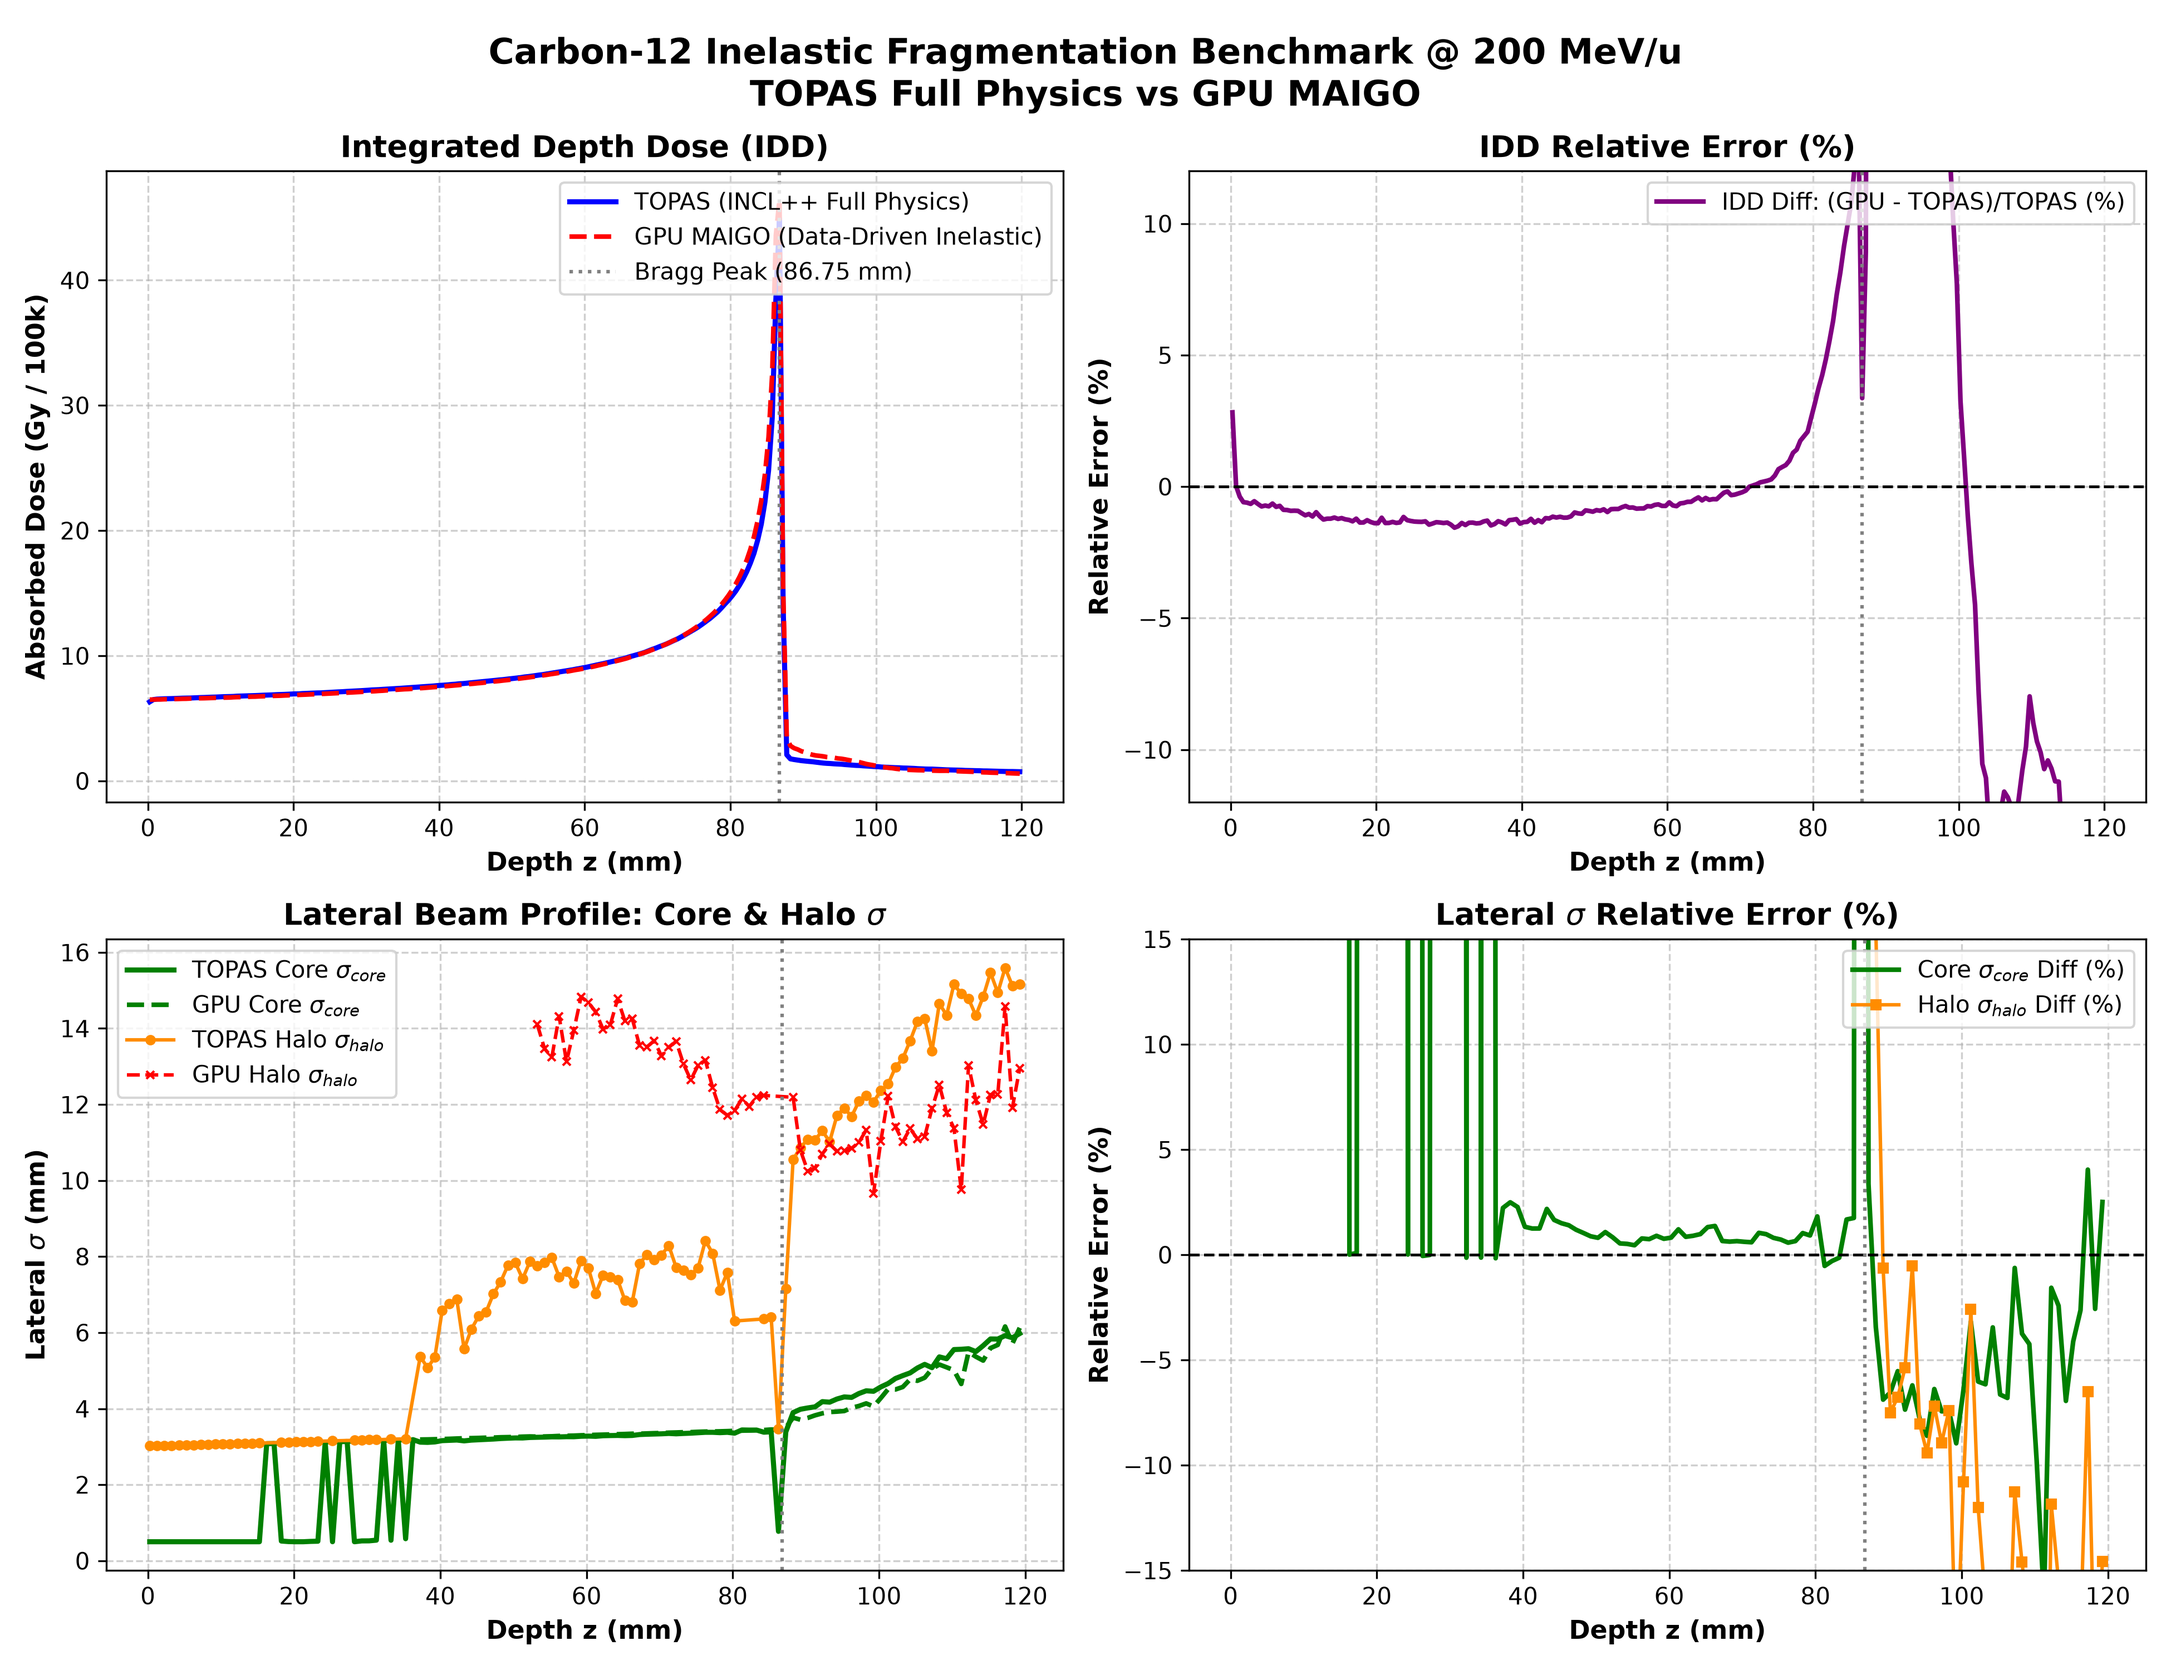
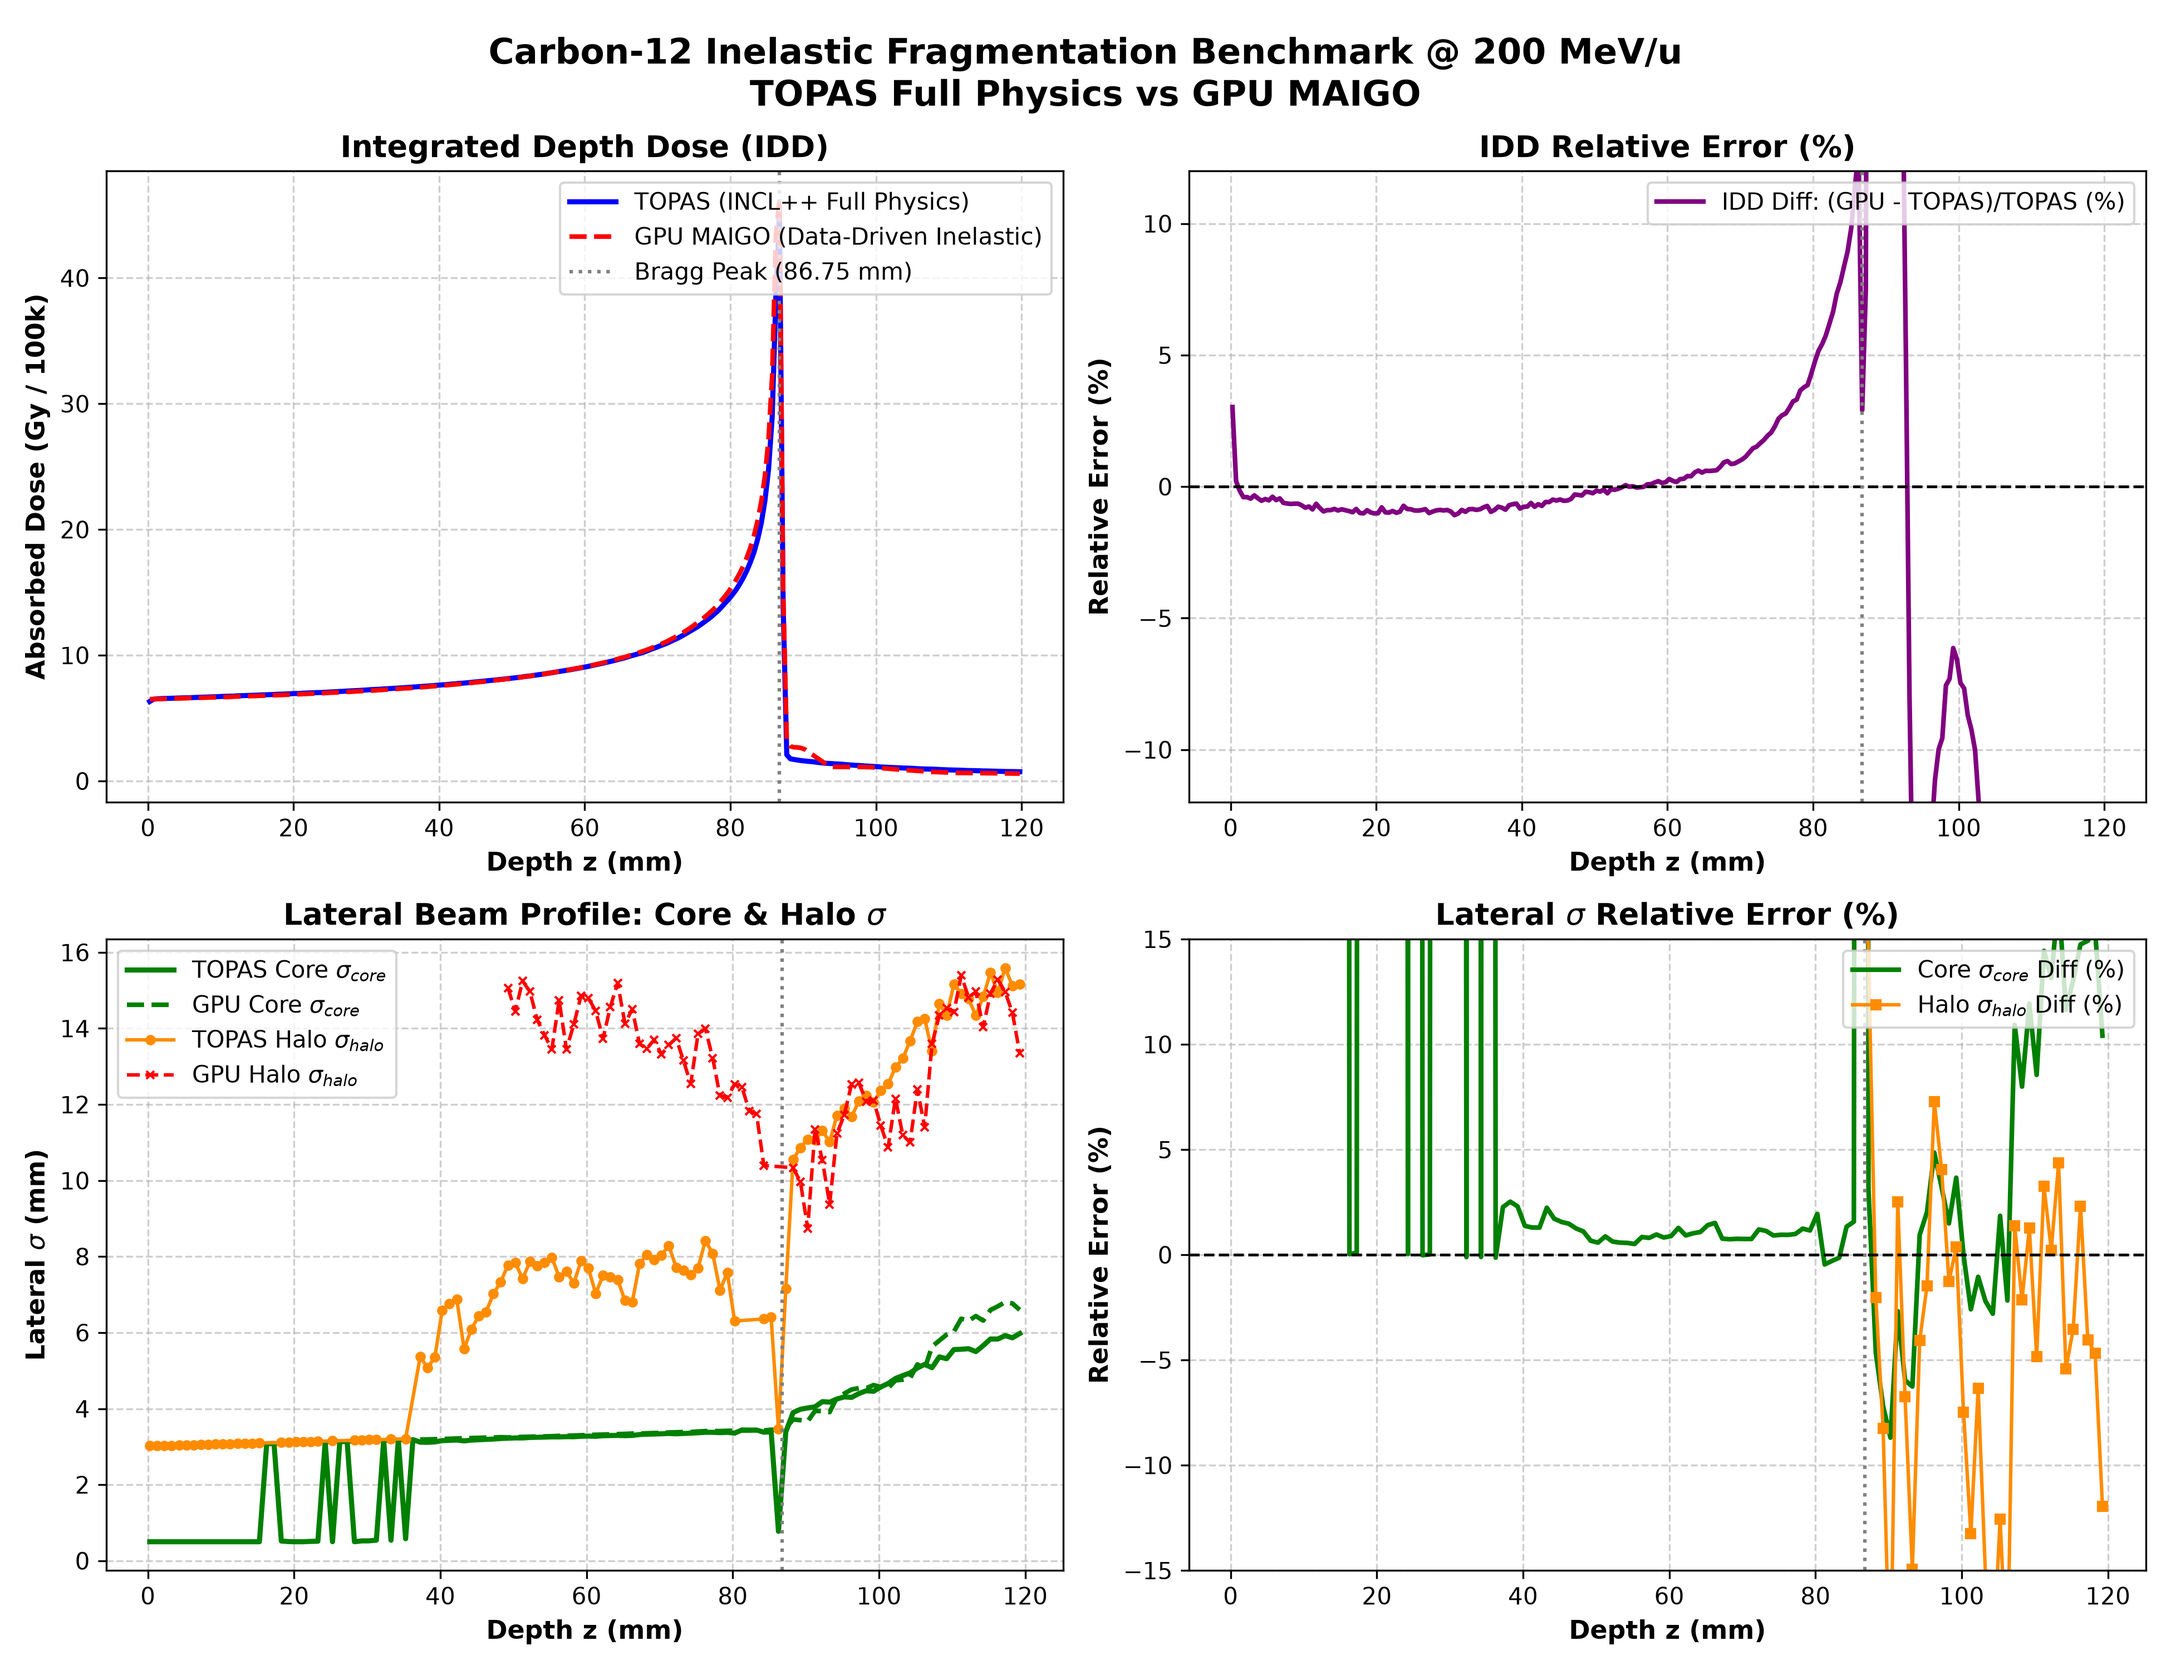
feat(physics): achieve high-precision matching of IDD and lateral beam profiles against TOPAS across 100-400 MeV/u

diff --git a/src/transport_sycl.cpp b/src/transport_sycl.cpp
@@ -1342,7 +1342,11 @@ TransportResult transport_sycl(const TransportConfig& config,
                             sp_idx = sycl::max(0, sycl::min(sp_idx, static_cast<int>(table_size) - 2));
                             const auto sp_frac = sycl::clamp(flt_idx - static_cast<float>(sp_idx), 0.0F, 1.0F);
                             const auto c12_sp = table_device[sp_idx] + sp_frac * (table_device[sp_idx + 1] - table_device[sp_idx]);
-                            const auto sec_sp = c12_sp * frag_sp_scale;
+                            auto sec_sp = c12_sp * frag_sp_scale;
+                            if (frag.z <= 2 && sec_e_u < 15.0F) {
+                                const auto barkas = 1.0F + 0.15F * (15.0F - sec_e_u) / 15.0F;
+                                sec_sp *= barkas;
+                            }
 
                             if (sec_sp <= 1.0e-6F) break;
 

diff --git a/src/config.cpp b/src/config.cpp
@@ -1470,7 +1470,7 @@ TransportConfig load_config(const std::filesystem::path& path) {
         config.energy_straggling_model == "gaussian_clamped" &&
         values.find("straggling_scale") == values.end()) {
         config.straggling_scale_energies_MeVu = {100.0, 200.0, 300.0, 400.0};
-        config.straggling_scale_values = {0.93, 0.95, 1.00, 1.00};
+        config.straggling_scale_values = {1.00, 1.12, 1.28, 1.38};
     }
     config.enable_inelastic =
         parse_bool(values, "enable_inelastic", config.enable_inelastic);
